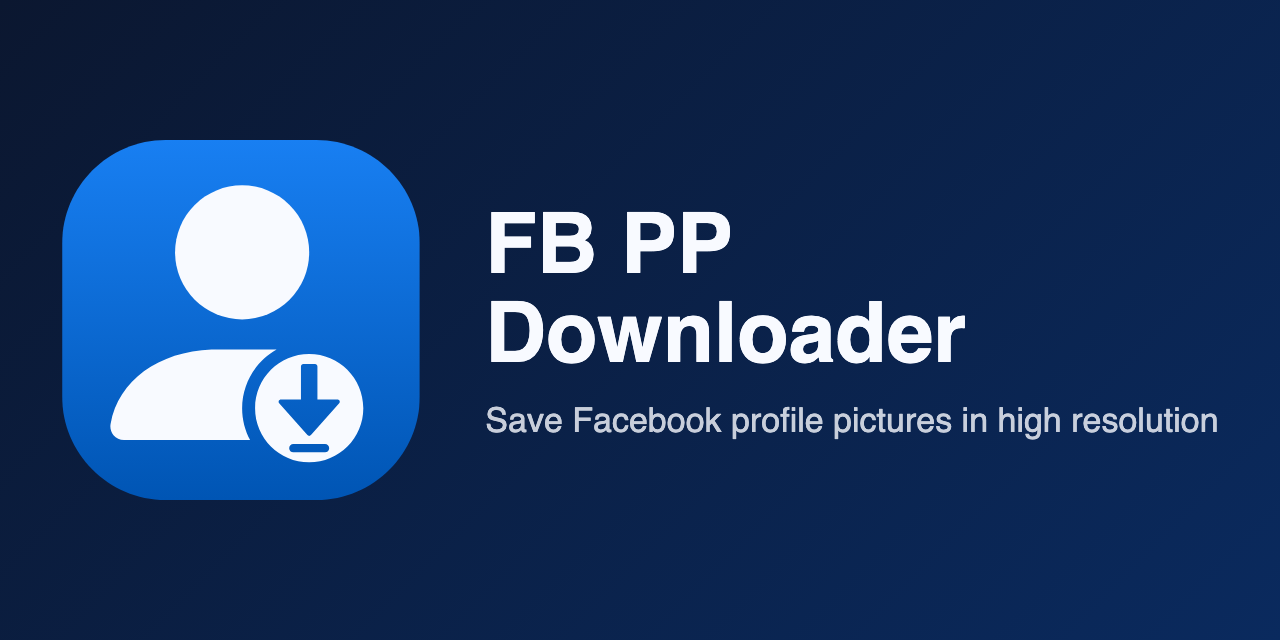
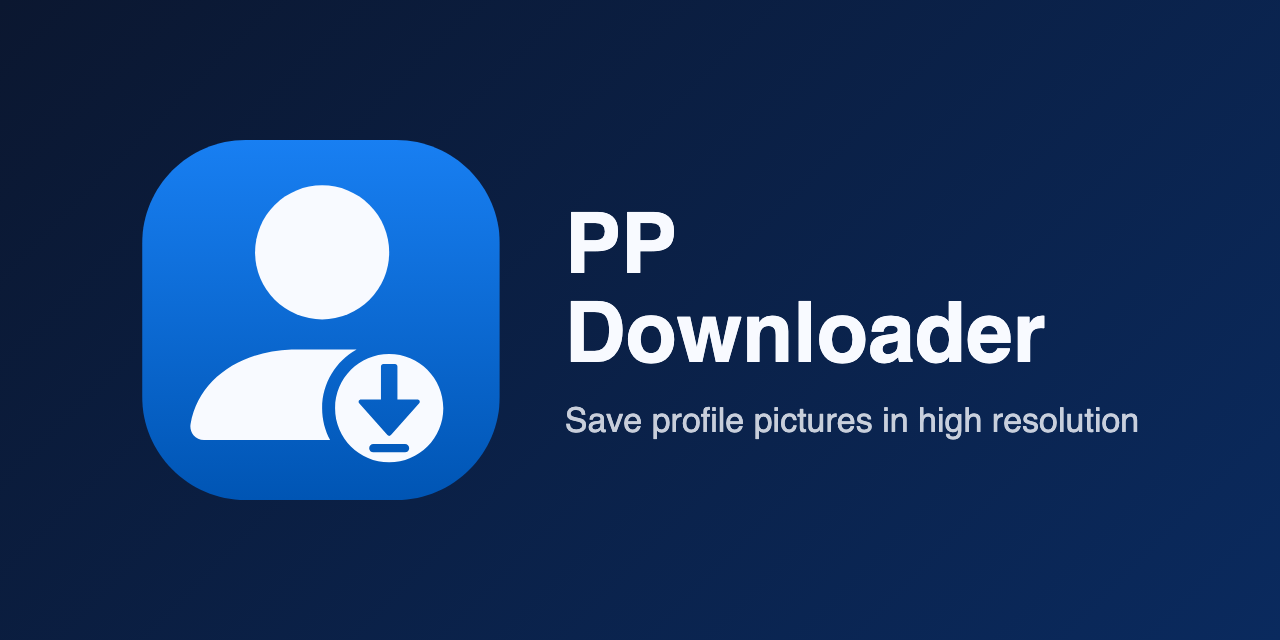
Rename product to PP Downloader; add MIT license and disclaimer
- Product name no longer includes "Facebook" (manifest, popup title, README)
- Add MIT LICENSE and README non-affiliation disclaimer
- Regenerate the social preview with the new name
- Document naming and click-only constraints in architecture notes

Changed region(s): [[0.0312, 0.2188, 0.9688, 0.7812], [0.5312, 0.3125, 0.5938, 0.4375]]

diff --git a/wxt.config.ts b/wxt.config.ts
@@ -9,7 +9,7 @@ export default defineConfig({
     plugins: [tailwindcss()],
   }),
   manifest: ({ browser }) => ({
-    name: 'Facebook PP Downloader',
+    name: 'PP Downloader',
     description:
       'Save Facebook profile pictures in the highest resolution available.',
     // Least privilege: no host or API permissions until a feature needs them.

diff --git a/src/entrypoints/popup/index.html b/src/entrypoints/popup/index.html
@@ -3,7 +3,7 @@
   <head>
     <meta charset="UTF-8" />
     <meta name="viewport" content="width=device-width, initial-scale=1.0" />
-    <title>Facebook PP Downloader</title>
+    <title>PP Downloader</title>
     <meta name="manifest.type" content="browser_action" />
   </head>
   <body>

diff --git a/README.md b/README.md
@@ -1,6 +1,6 @@
-<p align="center"><img src="docs/assets/logo.png" alt="FB PP Downloader logo" width="128"></p>
+<p align="center"><img src="docs/assets/logo.png" alt="PP Downloader logo" width="128"></p>
 
-# FB PP Downloader
+# PP Downloader
 
 Browser extension (Chrome, Firefox) that saves Facebook profile pictures in the highest resolution available.
 
@@ -15,6 +15,14 @@ Browser extension (Chrome, Firefox) that saves Facebook profile pictures in the 
    <img src="docs/assets/screenshots/02-select-profile-picture.webp" alt="Pick mode highlighting a profile picture" width="720">
 
 Feed and suggestion thumbnails only exist in low resolution. For those, the extension offers to open the profile so you can pick the full-size picture there.
+
+## Disclaimer
+
+PP Downloader is an independent project. It is not affiliated with, endorsed by, or sponsored by Meta Platforms, Inc. Facebook is a trademark of Meta Platforms, Inc. Use it only on content you are allowed to access, and follow Facebook's terms.
+
+## License
+
+[MIT](LICENSE)
 
 ## Stack
 

diff --git a/docs/architecture.md b/docs/architecture.md
@@ -42,3 +42,9 @@ Options page, messaging module, runtime validation (zod), browser-specific folde
 
 - Firefox add-on ID is `fb-pp-downloader@ramyyasser21102.github.io` (self-chosen, set in `wxt.config.ts`). It is claimed on the first AMO upload and must never change afterwards.
 - The Firefox build declares `data_collection_permissions: none`. Update if that changes.
+
+## Naming and legal notes
+
+- The product name is "PP Downloader". It deliberately avoids "Facebook" in the name, per Meta's trademark guidance; "Facebook" appears only as a factual reference in descriptions. The README carries a non-affiliation disclaimer, and the store listings should too.
+- The extension stays user-initiated: one click per picture, no bulk or background fetching. This keeps it away from "automated data collection" in Meta's Terms of Service. Do not add batch downloads without revisiting this.
+- Code license: MIT (`LICENSE`). It governs reuse of this code only; it does not grant any permission from Facebook.
